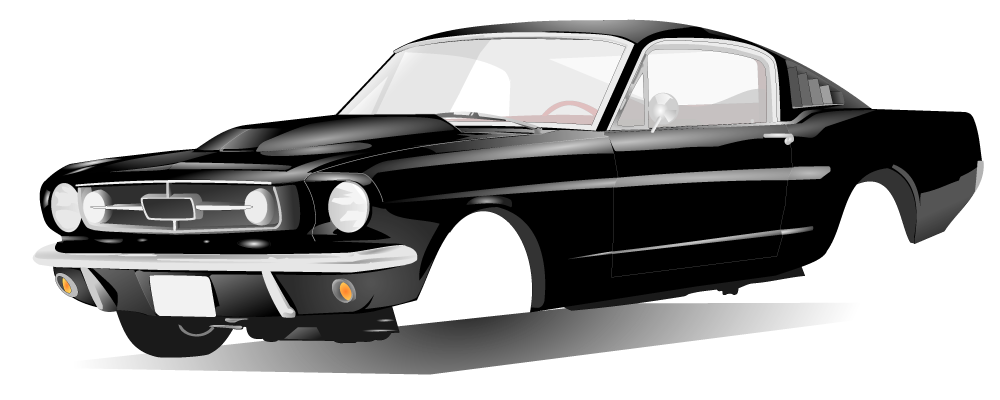
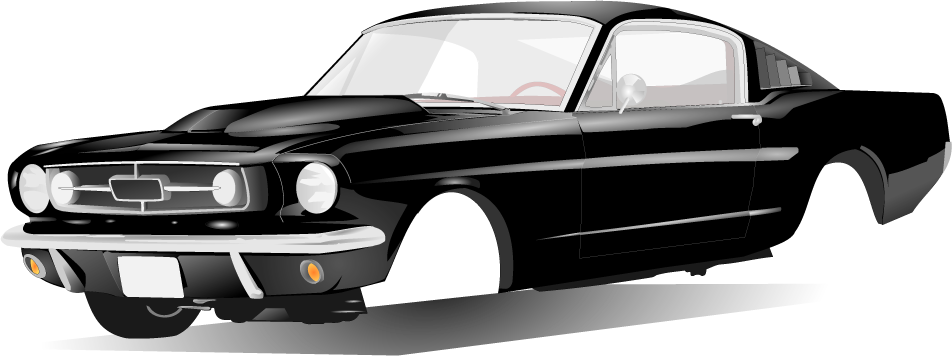
change all to rem

diff --git a/css/car_style.css b/css/car_style.css
@@ -24,12 +24,15 @@ button:focus {
 .car_box {
     position: relative;
     /* margin: 0 auto; */
+    /* overflow: hidden; */
+    height: 18rem;
 }
 .car {
     position: relative;
     height: 14rem;
-    left: 6rem;
+    left: 8rem;
     top: 4rem;
+    border-radius: 10em;
 }
 
 .car_img {
@@ -44,16 +47,16 @@ button:focus {
 }
 .wheel {
     position: absolute;
-    top: 6.4rem;
-    left: 14.4rem;
+    top: 6rem;
+    left: 14rem;
     width: 5rem;
     height: 5rem;
 }
 .wheel-btn {
     /* opacity: 0; */
     /* display: none; */
-    /* z-index: 1; */
-    width: 19.5rem;
+    z-index: 2;
+    width: 20.3rem;
     
 }
 .list_transmition {
@@ -61,7 +64,8 @@ button:focus {
     /* opacity: 0; */
     position: absolute;
     top: 2rem;
-    left: 6rem;
+    left: 5.5rem;
+    z-index: 2;
 }
 .wheel:hover .wheel-btn {
     display: block;
@@ -75,21 +79,21 @@ button:focus {
 }
 .engine {
     position: absolute;
-    top: 4.2rem;
-    left: 3rem;
+    top: 3.69rem;
+    left: 2rem;
     width: 15rem;
     height: 2rem; 
 }
 .engine-btn {
     display: none;    
-    width: 16.4rem;
+    width: 17rem;
 }
 .list_engine {
     display: none;
     /* opacity: 0; */
     position: absolute;
     top: -5rem;
-    left: 7rem;
+    left: 9rem;
 }
 .engine:hover .engine-btn {
     display: initial;
@@ -101,15 +105,15 @@ button:focus {
 }
 .frontlight {
     position: absolute;
-    top: 6.6rem;
-    left: 1.8rem;
+    top: 6.2rem;
+    left: 0.5rem;
     width: 12rem;
     height: 5rem;
 }
 .fl-btn {
     display: none;
     /* opacity: 0; */
-    width: 12rem;
+    width: 12.8rem;
 }
 .list_electric {
     display: none;
@@ -131,14 +135,16 @@ button:focus {
 }    
 .body {
     position: absolute;
-    top: 1.4rem;
+    top: 0.88rem;
     left: 22.3rem;
     width: 15rem;
     height: 8rem;
+    z-index: 1;
 }
 .body-btn {
     display: none;
-    width: 14.4rem;    
+    width: 14.7rem;
+        
 }
 .list_body {
     display: none;
@@ -173,17 +179,19 @@ button:focus {
     display: none;
     /* opacity: 0; */
     position: absolute;
-    top: 1rem;
-    left: 9rem;
+    top: 0.5rem;
+    left: 9.5rem;
+    z-index: 10;
+    
 }
-.clean:hover > .clean-btn, .clean-btn:hover > .clean-btn {
+.clean:hover > .clean-btn, .clean-btn:hover {
     display: initial;
     /* opacity: 1; */
     filter: drop-shadow(0px 0px 10px red);
 }
-/* .clean:hover > .list_clean, .list_clean:hover {
+.clean:hover > .list_clean, .list_clean:hover {
     display: block;    
-} */
+}
 #cleaning-girl:hover .list_clean {
     display: block;    
    

diff --git a/car.html b/car.html
@@ -16,17 +16,18 @@
 <body>
 	<div class="conteiner-fluid">
 		<div class="row">
-			<div class="col-xs-1 col-md-2"></div>
-			<div class="car_box col-xs-10 col-md-8">
+			<!-- <div class="col-xs-0 col-sm-2"></div> -->
+			<div class="car_box">
 				<div class="clean">
 					<img class="clean-btn" src="img/clean-girl.png" alt="cleaning" usemap="#cleaning-girl">
-					<p>
+					<!-- <p>
 						<map name="cleaning-girl">
 							<area shape="poly" coords="137,467,129,390,142,297,204,230,324,176,419,195,469,186,470,2,92,2,4,146,1,194,35,375,43,473" href="#" alt="clean">
 		
 						</map>					
 	
-					</p>					<div class="list_clean">
+					</p>					 -->
+					<div class="list_clean">
 						<ul class="drop-menu btn btn-default nav nav-pills nav-stacked disabled">
 							<li>
 								<a href="">lorem</a>
@@ -109,7 +110,7 @@
 				</div>
 
 			</div>
-			<div class="col-xs-1 col-md-2"></div>
+			<!-- <div class="col-xs-0 col-sm-2"></div> -->
 		</div>
 	</div>
 </body>
